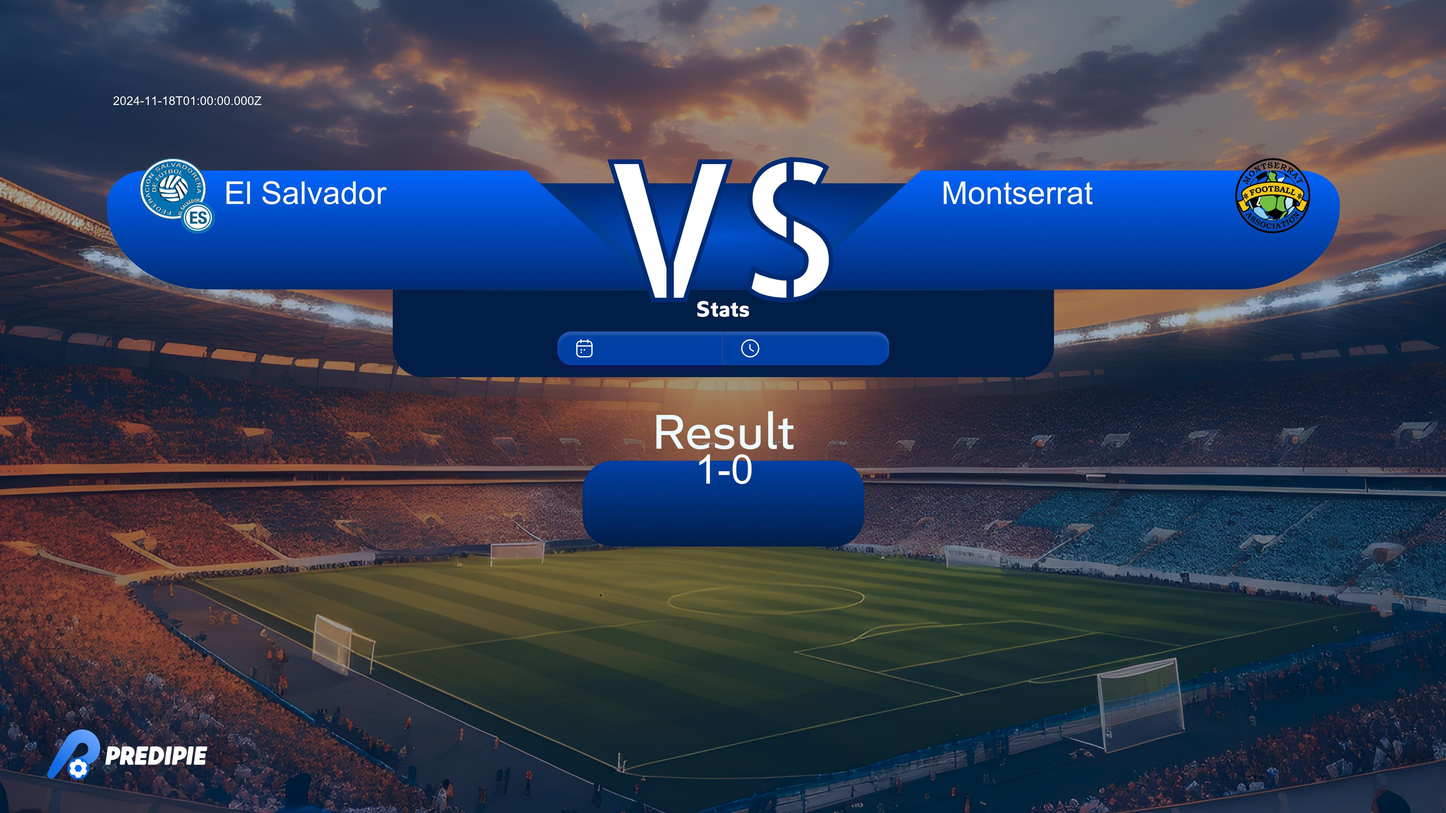
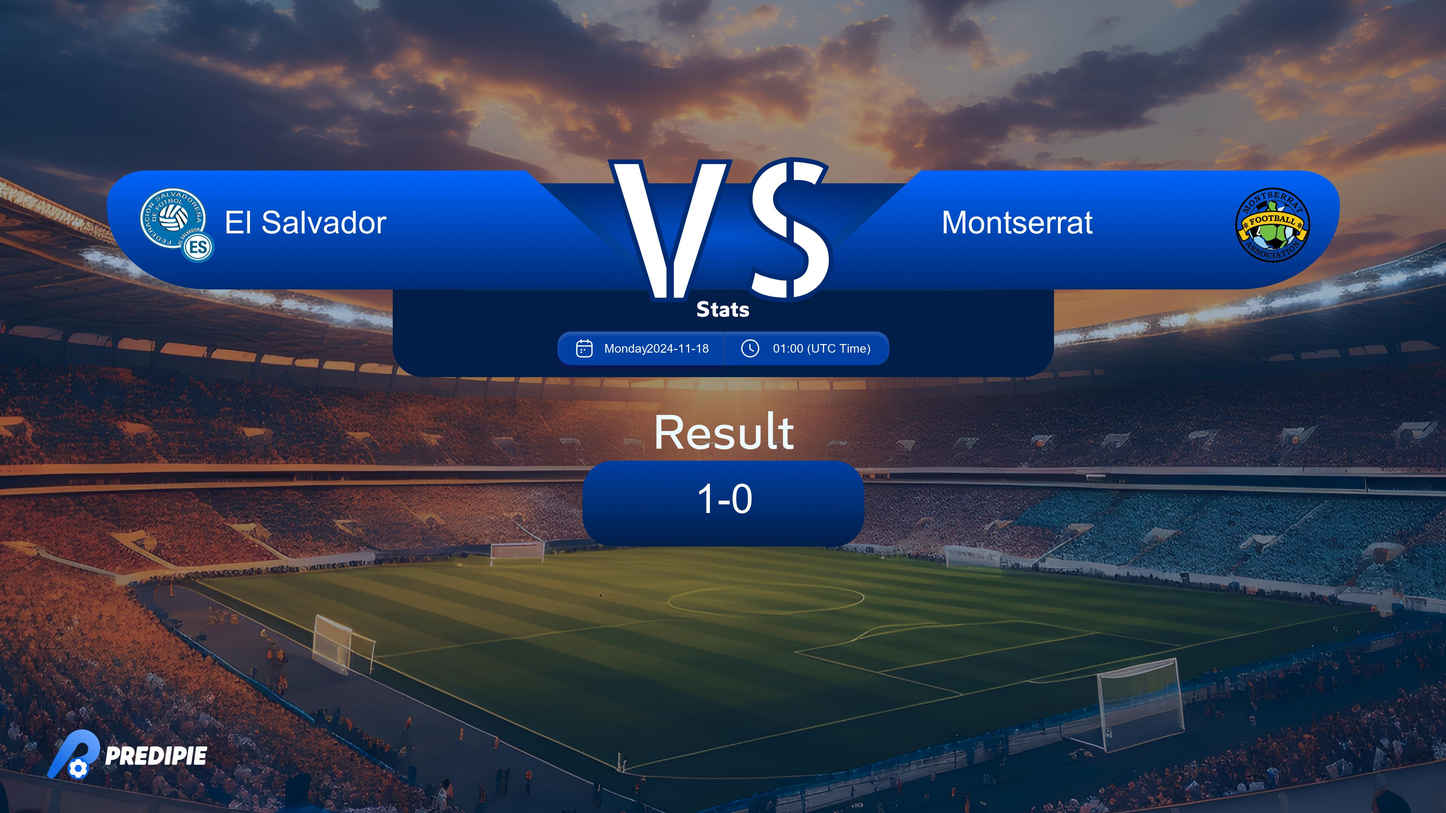
fix : fix the first image of first video positions

diff --git a/Predipie-Json/newsrc/firstVideoImageBuilder/image_generator.py b/Predipie-Json/newsrc/firstVideoImageBuilder/image_generator.py
@@ -2,6 +2,7 @@
 import os
 import requests
 from PIL import Image
+from datetime import datetime
 from .data_loader import DataLoader
 from .template_manager import TemplateManager
 from .configAPI import ConfigAPI
@@ -12,7 +13,6 @@ class ImageGenerator:
         self.output_folder = ConfigAPI.OUTPUT_FOLDER
         os.makedirs(self.output_folder, exist_ok=True)
 
-        # تعیین مسیر تصاویر بر اساس مقادیر `Card`
         self.template_map = {
             "Win Away Team": os.path.join(ConfigAPI.ASSET_DIR, "first_video", "Match-prediction-Away.jpg"),
             "Win Home Team": os.path.join(ConfigAPI.ASSET_DIR, "first_video", "Match-prediction-Home.jpg"),
@@ -21,9 +21,8 @@ class ImageGenerator:
             "Win Home or Away Team": os.path.join(ConfigAPI.ASSET_DIR, "first_video", "Match-prediction-Home-Away.jpg"),
         }
 
-        # مسیر آیکونهای True و False
         self.true_icon_path = os.path.join(ConfigAPI.ASSET_DIR,"first_video", "True-Icon.png")
-        self.false_icon_path = os.path.join(ConfigAPI.ASSET_DIR,"first_video", "False-Icon.png")
+        self.false_icon_path = os.path.join(ConfigAPI.ASSET_DIR, "first_video", "False-Icon.png")
 
     def download_image(self, url):
         try:
@@ -38,9 +37,6 @@ class ImageGenerator:
             return None
 
     def select_icon(self, card_value, score):
-        """
-        انتخاب آیکون صحیح بر اساس شرطهای دادهشده و نتیجه Score.
-        """
         home_score, away_score = map(int, score.split('-'))
 
         if card_value == "Win Home or Away Team":
@@ -55,18 +51,33 @@ class ImageGenerator:
             return self.false_icon_path if away_score < home_score else self.true_icon_path
         return self.true_icon_path
 
+    def format_timestamp(self, timestamp):
+        dt = datetime.fromisoformat(timestamp.replace("Z", "+00:00"))
+        date_str = dt.strftime("%Y-%m-%d")  
+        day_str = dt.strftime("%A") 
+        time_str = dt.strftime("%H:%M") + " (UTC Time)"  
+        return date_str, day_str, time_str
+
+    def adjust_y_positions(self, positions, offset=78):
+        adjusted_positions = {}
+        for key, (x, y) in positions.items():
+            adjusted_positions[key] = (x, y + offset)
+        return adjusted_positions
+
     def generate_images(self):
         data = self.data_loader.load_data()
         if not data:
             print("No data loaded for image generation.")
             return
 
-        positions = {
+        base_positions = {
             "home_team_name": (595, 465),
             "home_team_logo": (370, 420),
             "away_team_name": (2500, 465),
             "away_team_logo": (3280, 420),
-            "startTimestamp": (300, 250),  
+            "date": (1717, 830),
+            "day": (1605, 830),
+            "time": (2053, 830),  
             "Score": (1845, 1187),
             "icon": (1847, 0) 
         }
@@ -75,39 +86,44 @@ class ImageGenerator:
             card_value = match_info.get("Card", "none")
             template_path = self.template_map.get(card_value, ConfigAPI.TEMPLATE_PATH)
 
+            date_str, day_str, time_str = self.format_timestamp(match_info.get('startTimestamp', '2024-01-01T00:00:00.000Z'))
+
             output_path_1 = os.path.join(self.output_folder, f"game_{game_id}_prediction1.jpg")
             template_manager_1 = TemplateManager(ConfigAPI.TEMPLATE_PATH)
 
-            self.add_text_and_logos(template_manager_1, match_info, positions)
+            adjusted_positions = self.adjust_y_positions(base_positions, offset=78)
+
+            self.add_text_and_logos(template_manager_1, match_info, adjusted_positions, date_str, day_str, time_str)
             template_manager_1.save_image(output_path_1)
             print(f"Saved image 1 for game {game_id} at {output_path_1}")
 
             output_path_2 = os.path.join(self.output_folder, f"game_{game_id}_prediction2.jpg")
             template_manager_2 = TemplateManager(template_path)
 
-            self.add_text_and_logos(template_manager_2, match_info, positions)
+            self.add_text_and_logos(template_manager_2, match_info, base_positions, date_str, day_str, time_str)
 
             score = match_info.get("Score", "0-0")
             icon_path = self.select_icon(card_value, score)
-            icon_image = Image.open(icon_path).convert("RGBA").resize((200, 200))
-            template_manager_2.add_image(icon_image, position=positions["icon"], size=(200, 200))
+            icon_image = Image.open(icon_path).convert("RGBA").resize((200, 200)) 
+            template_manager_2.add_image(icon_image, position=base_positions["icon"], size=(200, 200))
 
-            # ذخیره دومین عکس
             template_manager_2.save_image(output_path_2)
             print(f"Saved image 2 for game {game_id} at {output_path_2}")
 
-
-    def add_text_and_logos(self, template_manager, match_info, positions):
+    def add_text_and_logos(self, template_manager, match_info, positions, date_str, day_str, time_str):
 
         template_manager.add_text(match_info.get('home_team_name', 'Home Team'), position=positions["home_team_name"], font_size=84)  
-        template_manager.add_text(match_info.get('away_team_name', 'Away Team'), position=positions["away_team_name"], font_size=84)  
-        template_manager.add_text(match_info.get('startTimestamp', 'Date Not Available'), position=positions["startTimestamp"], font_size=32)  
-        template_manager.add_text(match_info.get('Score', 'Final Score'), position=positions["Score"], font_size=108) 
+        template_manager.add_text(match_info.get('away_team_name', 'Away Team'), position=positions["away_team_name"], font_size=84) 
+        template_manager.add_text(date_str, position=positions["date"], font_size=32) 
+        template_manager.add_text(day_str, position=positions["day"], font_size=32)   
+        template_manager.add_text(time_str, position=positions["time"], font_size=32)  
+        template_manager.add_text(match_info.get('Score', 'Final Score'), position=positions["Score"], font_size=108)  
+
         home_logo = match_info.get('home_team_logo', '')
         if home_logo.startswith("http"):
             logo_image = self.download_image(home_logo)
             if logo_image:
-                template_manager.add_image(logo_image, position=positions["home_team_logo"], size=(200, 200)) 
+                template_manager.add_image(logo_image, position=positions["home_team_logo"], size=(200, 200))
         else:
             template_manager.add_image(home_logo, position=positions["home_team_logo"], size=(200, 200))
 
